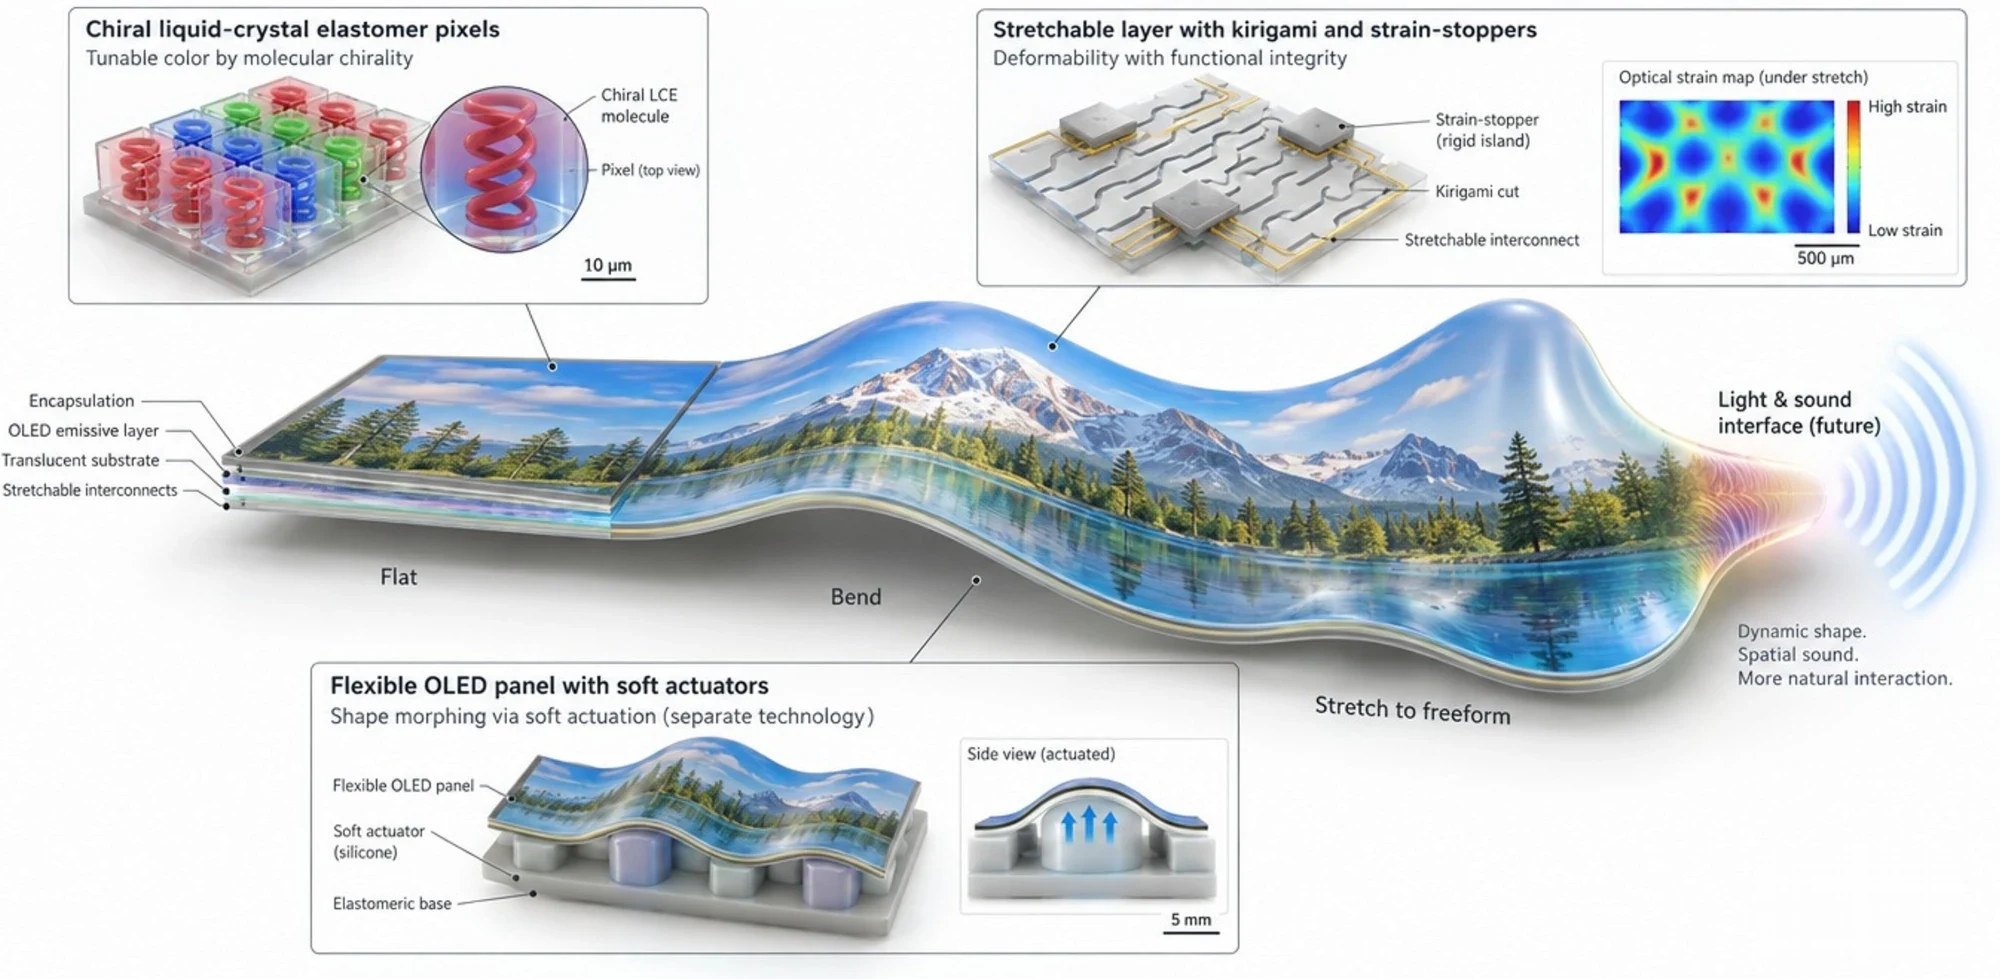
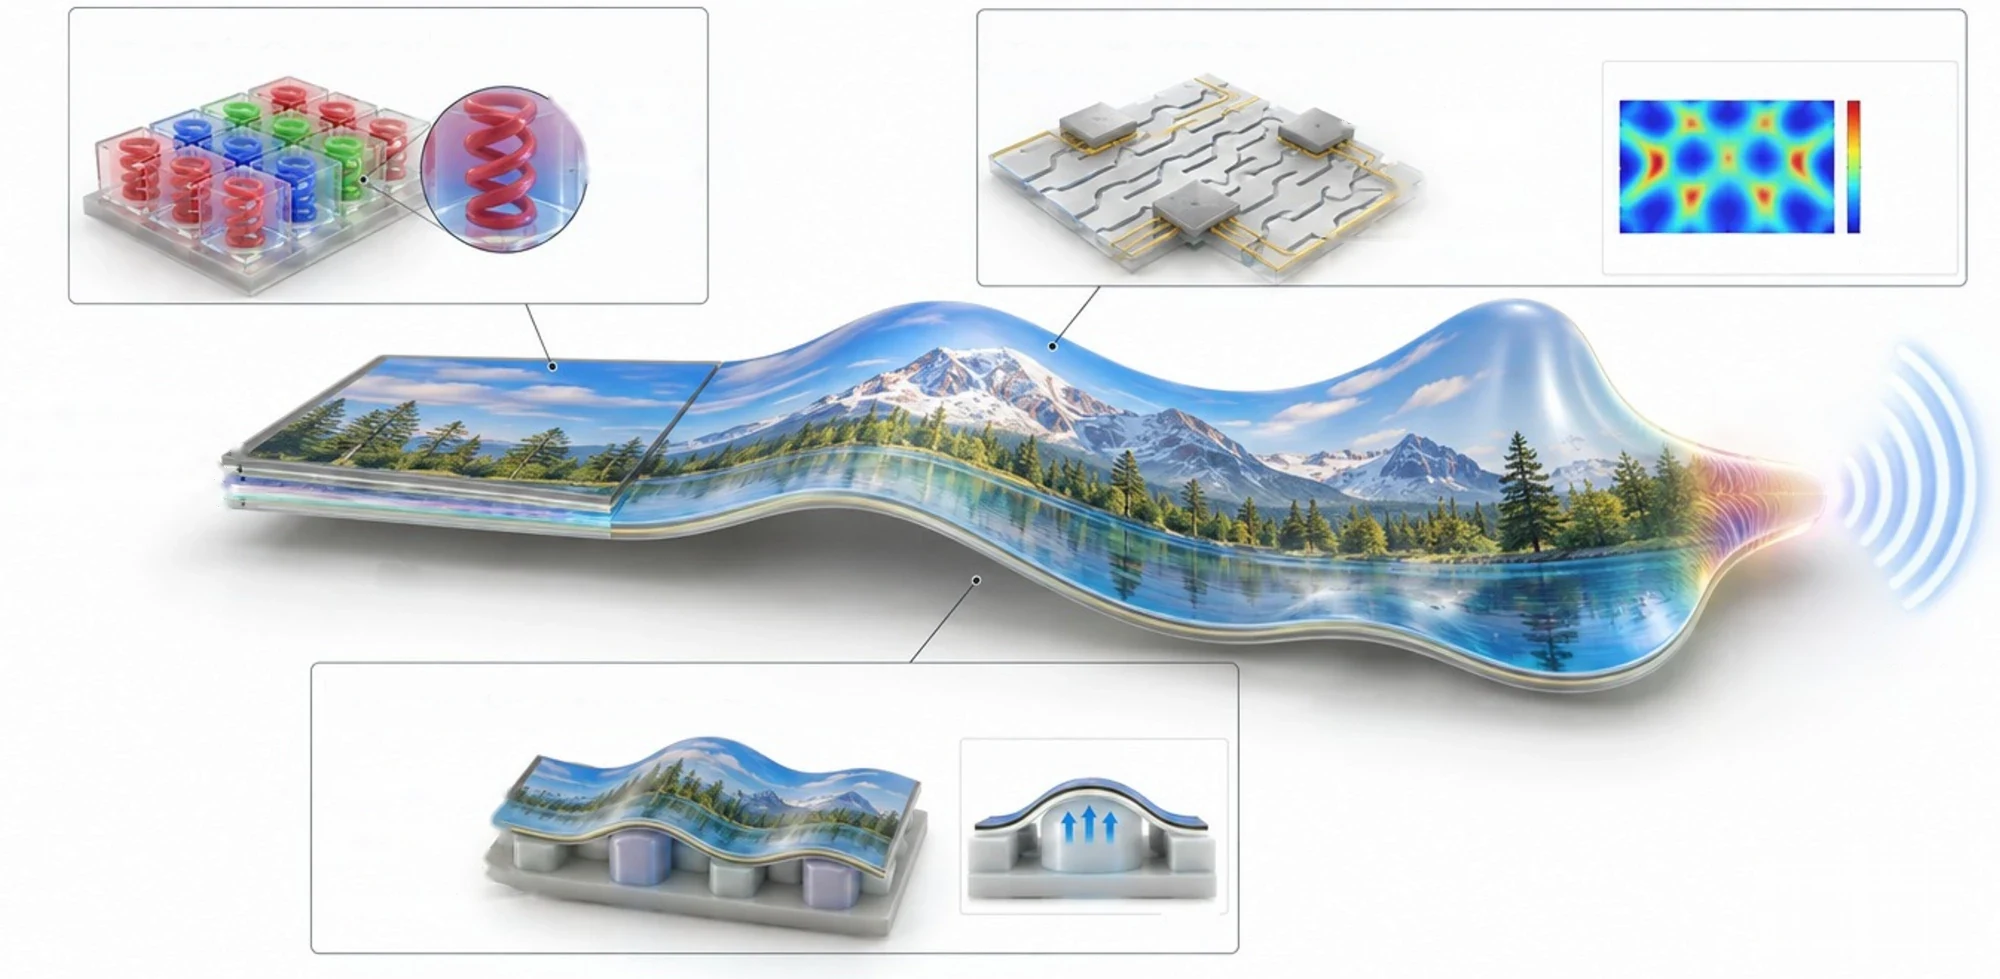
Research: text-free Deformable Displays figure
The figure carried ~30 labels, two subtitles, scale bars and taglines.
All text, label leader lines and scale bars are removed (OpenCV
inpainting inside label zones; flat panel-colour fill on white panels so
no colour bleeds in from the strain map); the illustration itself and
the inset-to-ribbon connector lines are unchanged. This also removes
the OLED wording that was inside the figure. Alt text updated.

Claude-Session: https://claude.ai/code/session_01NEuBPxVMfFaBWhH2gNrtRg

diff --git a/research.html b/research.html
@@ -228,7 +228,7 @@
     </div>
 
     <div class="feature flip reveal" id="area9">
-      <div class="media"><img src="assets/research/area9-display.webp" alt="Deformable displays: chiral liquid-crystal elastomer pixels, a stretchable layer with kirigami cuts and strain-stoppers, a shape-morphing panel on soft actuators, and a future light-and-sound interface" width="2000" height="979" loading="lazy" /></div>
+      <div class="media"><img src="assets/research/area9-display.webp" alt="Deformable displays: a display that goes from flat to bent to freeform, with insets of chiral liquid-crystal elastomer pixels, a kirigami stretchable layer with a strain map, and a panel reshaped by soft actuators" width="2000" height="979" loading="lazy" /></div>
       <div>
         <span class="num">08 · Flexible / Stretchable</span>
         <h3>Deformable Displays</h3>
